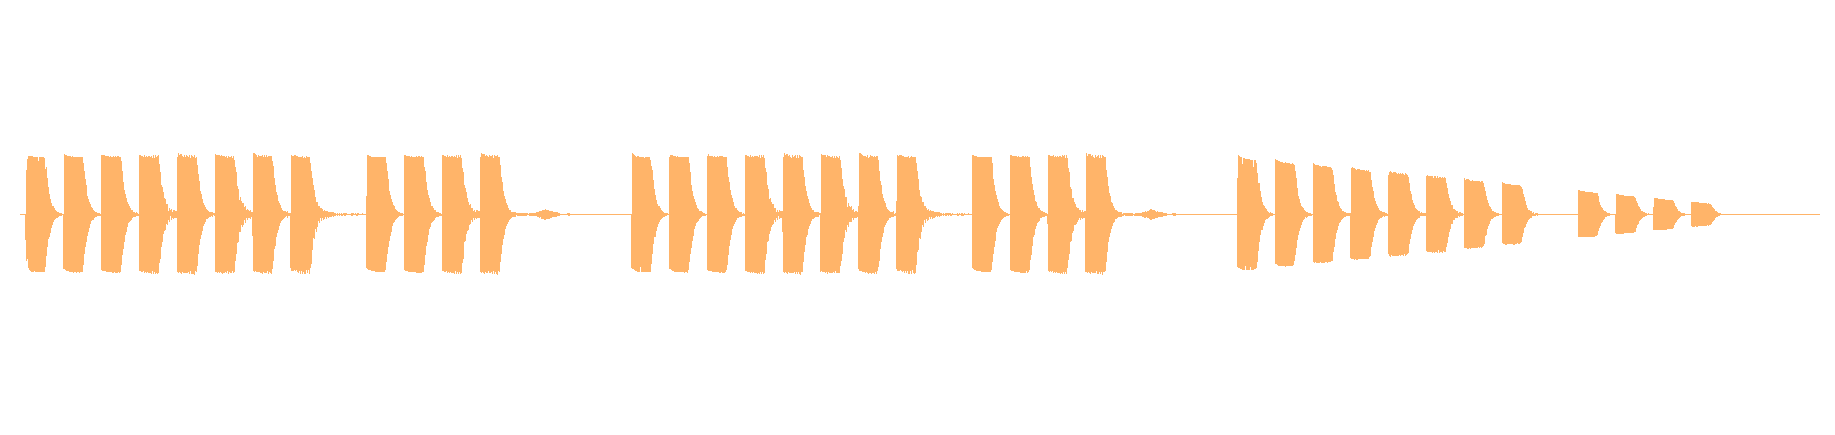
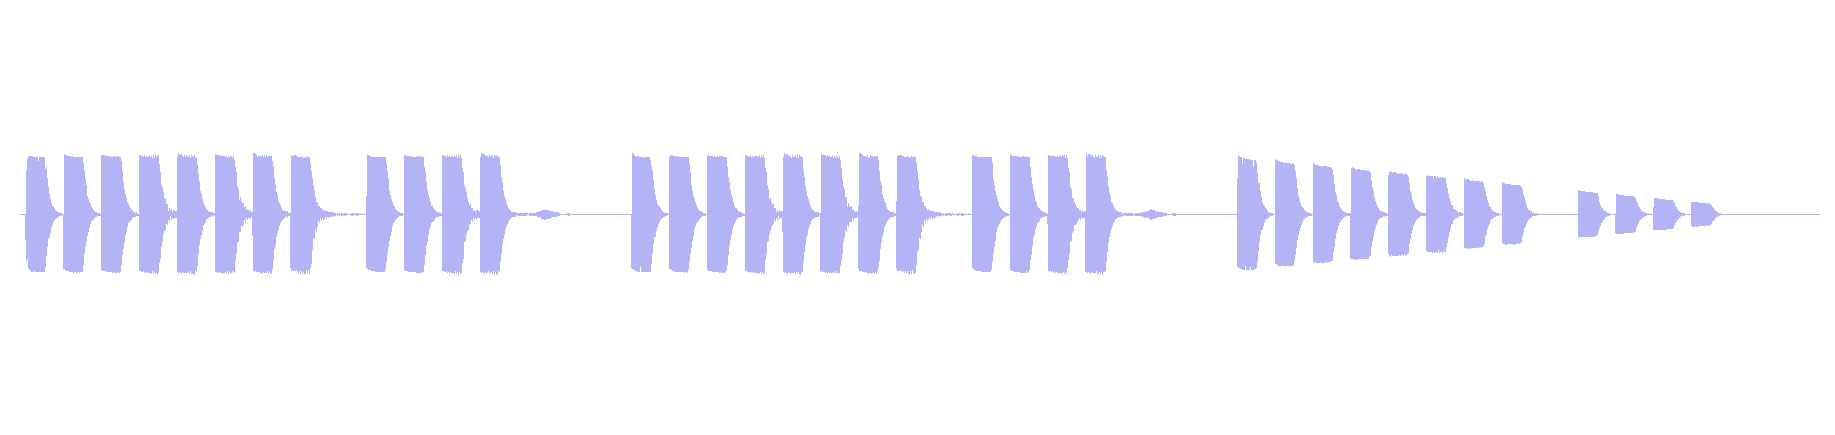
chore: color change waveform to blue

Changed region(s): [[0.3417, 0.3586, 0.9629, 0.6276], [0.0, 0.3586, 0.3106, 0.6276]]

diff --git a/main.go b/main.go
@@ -39,12 +39,13 @@ func main() {
 		MarginT: 15,
 		MarginB: 20,
 		Front: &color.NRGBA{
-			R: 255,
-			G: 128,
-			B: 0,
+			R: 125,
+			G: 125,
+			B: 240,
 			A: 150,
 		},
 		Back: &color.NRGBA{
+			B: 124,
 			A: 0, // opacity
 		},
 	})
